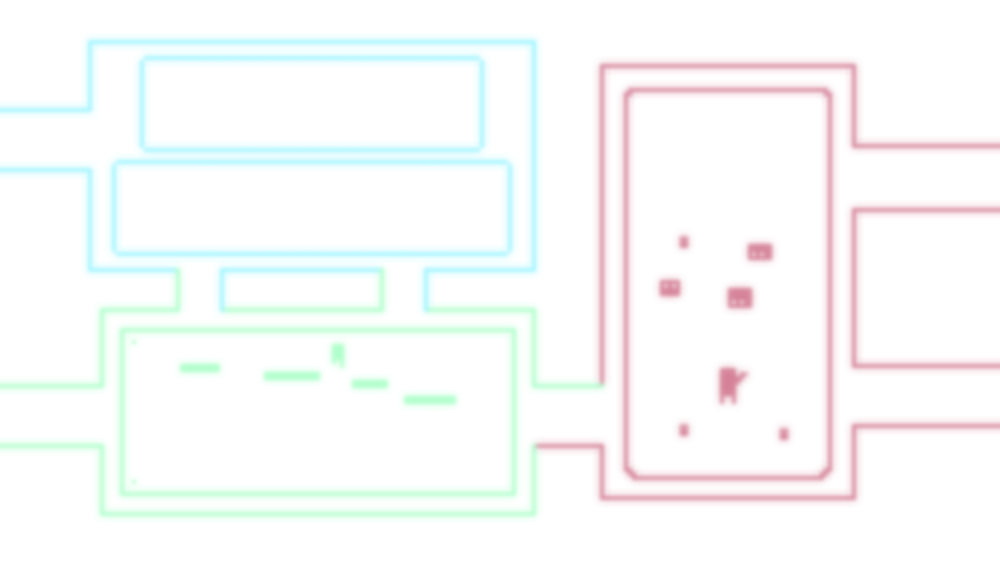
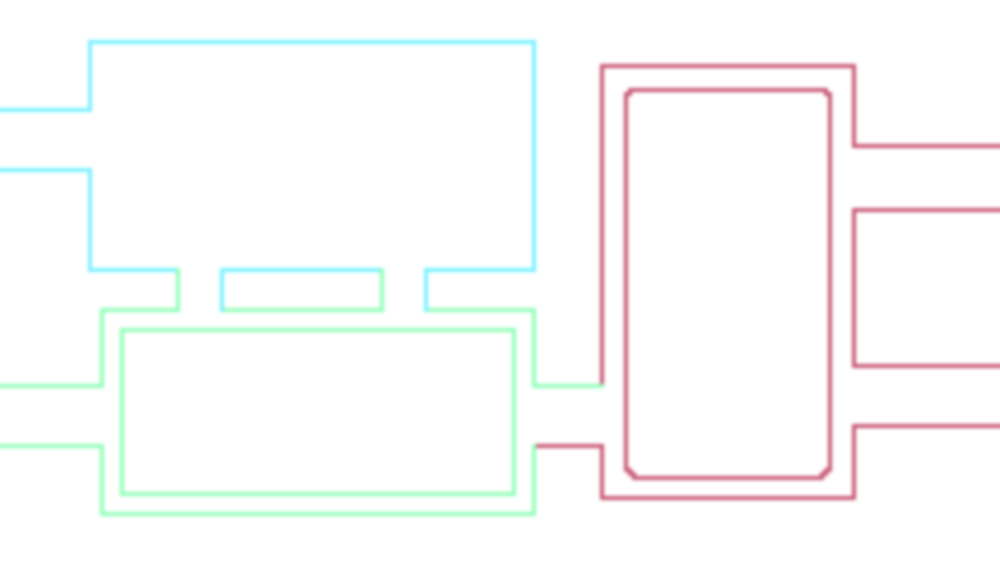
yay

diff --git a/index.html b/index.html
@@ -53,12 +53,11 @@
                     <div  class="buttons">
                         <div class="platformer" onclick="window.open('platformer');"></div>
                         <div class="rpg" onclick="window.open('top-down');"></div>
-                        <div class="buttons-image-1"></div>
-                        <div class="buttons-image-2"></div>
-                        <div class="buttons-image-3"></div>
+                        <div class="buttons-image-2"></div> 
+                        <div class="buttons-image-3"></div> 
+
                     </div>
                     
-                    <!-- <img src="/assets/glow-buttons.png" class="buttons"/> -->
                 </div>
             </div>
         </div>
@@ -165,26 +164,7 @@
             requestAnimationFrame(tick);
         })();
 
-        // Button hover effects
-        const platformerBtn = document.querySelector('.platformer');
-        const rpgBtn = document.querySelector('.rpg');
-        const buttonsImage1 = document.querySelector('.buttons-image-1');
-        
-        platformerBtn.addEventListener('mouseenter', () => {
-            buttonsImage1.style.backgroundImage = 'url("/assets/buttons2.png")';
-        });
-        
-        platformerBtn.addEventListener('mouseleave', () => {
-            buttonsImage1.style.backgroundImage = 'url("/assets/buttons.png")';
-        });
-        
-        rpgBtn.addEventListener('mouseenter', () => {
-            buttonsImage1.style.backgroundImage = 'url("/assets/buttons3.png")';
-        });
-        
-        rpgBtn.addEventListener('mouseleave', () => {
-            buttonsImage1.style.backgroundImage = 'url("/assets/buttons.png")';
-        });
+
 
     </script>
 

diff --git a/style.css b/style.css
@@ -374,7 +374,6 @@ a {
 }
 .buttons-image-1 {
     image-rendering: pixelated;
-    background: url('/assets/buttons.png') center bottom no-repeat;
     background-size: cover;
     position: absolute;
     width: 100%;
@@ -388,7 +387,6 @@ a {
     position: absolute;
     width: 100%;
     height: 100%;
-    opacity: 0.2;
     pointer-events: none;
 }
 .section-header {
@@ -461,6 +459,7 @@ a {
     cursor: pointer;
     image-rendering: pixelated; /* Ensures crisp edges when scaled up */
     image-rendering: crisp-edges; /* Fallback for better browser compatibility */
+
 }
 
 .rpg {
@@ -468,13 +467,17 @@ a {
     width: 21%;
     height: 69.6%;
     top: 50.2%;
-    left: 72.7%;
+    left: 72.9%;
     transform: translate(-50%, -50%);
     border: none;
     cursor: pointer;
     image-rendering: pixelated; /* Ensures crisp edges when scaled up */
     image-rendering: crisp-edges; /* Fallback for better browser compatibility */
+    
+
+    
 }
+
 @font-face {
   font-family: 'pixel'; /* Choose any name you like */
   src: url('/assets/PixelOperator.ttf') format('truetype'); /* Specify the path to your file */

diff --git a/top-down/index.html b/top-down/index.html
@@ -194,7 +194,6 @@ y += y_speed</pre>
                 </div>
             </div>
             
-            <!----------------------------- SOLIDS --------------------------->
             <div class="content-full">
                 <div class="full-column">
                     <p class="header">fixing our movement</p>
